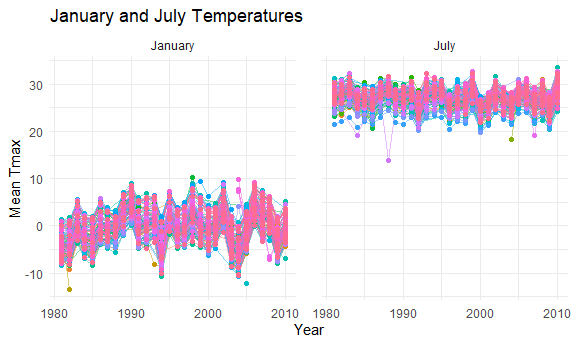
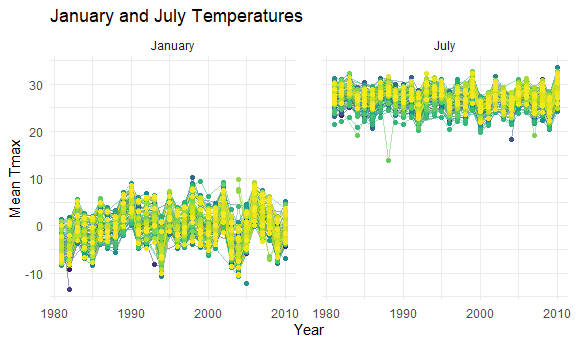
Cleaned up descriptions and plots

Changed region(s): [[0.0938, 0.4928, 0.5, 0.8406], [0.5625, 0.2029, 1.0, 0.4638], [0.0938, 0.8116, 0.125, 0.8406]]

diff --git a/p8105_hw3_rsh2155.md b/p8105_hw3_rsh2155.md
@@ -10,31 +10,15 @@ data("instacart")
 head(instacart)
 ```
 
-    ## # A tibble: 6 x 15
-    ##   order_id product_id add_to_cart_ord~ reordered user_id eval_set order_number
-    ##      <int>      <int>            <int>     <int>   <int> <chr>           <int>
-    ## 1        1      49302                1         1  112108 train               4
-    ## 2        1      11109                2         1  112108 train               4
-    ## 3        1      10246                3         0  112108 train               4
-    ## 4        1      49683                4         0  112108 train               4
-    ## 5        1      43633                5         1  112108 train               4
-    ## 6        1      13176                6         0  112108 train               4
-    ## # ... with 8 more variables: order_dow <int>, order_hour_of_day <int>,
-    ## #   days_since_prior_order <int>, product_name <chr>, aisle_id <int>,
-    ## #   department_id <int>, aisle <chr>, department <chr>
+This data has 1384617 observations and 15 columns. The data contains
+both user/order variables and item variables. Variables relating to the
+user and order are the user ID, order ID, order day, order hour, and
+days since prior order. Item variables include product ID, reordered
+(whether or not the user had ordered this previously), product name,
+aisle, and department. There are multiple aisles contained within
+departments.
 
-This data has 1384617 observations and 15 columns. The data is organized
-where each row is an item from one order, and the data set contains info
-on the item name and department and aisle where it can be found. It also
-contains information on whether that item was reordered, and information
-on that order (order number and time of order).
-
-User/order variables – user ID, order ID, order day, order hour. Item
-variables – name, aisle, department, and some numeric codes.
-
-Aisles are contained in departments
-
-Analyze number of aisles and which has the most items ordered from
+Analyze number of aisles and which has the most items ordered from.
 
 ``` r
 instacart %>% 
@@ -61,7 +45,7 @@ There are 134 aisles, and the most ordered items are from fresh
 vegetables, fresh fruits, and packaged vegetables fruits.
 
 Plot items ordered in each aisle, but only those with greater than
-10,000 items ordered
+10,000 items ordered.
 
 ``` r
 instacart %>% 
@@ -73,12 +57,17 @@ instacart %>%
   ) %>% 
   ggplot(aes(x = aisle, y = n)) +
   geom_point() +
-  theme(axis.text.x = element_text(angle = 90, vjust = 0.5, hjust = 1))
+  theme(axis.text.x = element_text(angle = 90, vjust = 0.5, hjust = 1)) +
+  labs(
+    title = "Items Ordered per Aisle",
+    x = "Aisle",
+    y = "Number of Items"
+    )
 ```
 
 <img src="p8105_hw3_rsh2155_files/figure-gfm/unnamed-chunk-3-1.png" width="90%" />
 
-Make a table of most popular items in three aisles:
+Make a table of the most popular items in three aisles.
 
 ``` r
 instacart %>% 
@@ -103,7 +92,8 @@ instacart %>%
 | packaged vegetables fruits | Organic Raspberries                           | 5546 |    2 |
 | packaged vegetables fruits | Organic Blueberries                           | 4966 |    3 |
 
-Mean time of day for Apples and Ice cream
+Table of mean time of day that Pink Lady Apples and Coffee Ice Cream are
+ordered.
 
 ``` r
 instacart %>% 
@@ -125,6 +115,8 @@ instacart %>%
 | Pink Lady Apples | 13.44118 | 11.36000 | 11.70213 | 14.25000 | 11.55172 | 12.78431 | 11.93750 |
 
 ## Problem 2
+
+Import and clean accelerometer data.
 
 ``` r
 accel_df = 
@@ -150,17 +142,11 @@ accel_df =
 
 There are 6 variables in this data set, and 50400 observations. Data of
 interest includes the activity period and activity count, which are
-respectively the minute of the day the measurement was taken, and the
+respectively the minute of the day the measurement was taken and the
 amount of activity that the man did during that minute. The week and day
 of the five week sample are included, as well as what day of the week
 each measurement was taken during. This is additionally broken into
 weekday and weekend categories.
-
-\-Recode variables (factor, etc) make sure minute of the day is numeric
--Order variables reasonably
-
-might have to use factors to order day of the week properly Total
-activity variable for each day Aggregate using sum
 
 ``` r
 accel_df %>% 
@@ -209,8 +195,14 @@ accel_df %>%
 |      34 |       367824.00 |
 |      35 |       445366.00 |
 
-Single panel plot Show activity - minute on x, activity count on y
-Geom\_line maybe Color of day of week (aes mapping)
+From the above table, it appears there were two days where this man did
+not wear the accelerometer because the activity count is at the baseline
+(day 24 and day 31). It does not appear that his activity levels are
+trending over time, but there are a few days in these five weeks where
+he had quite high activity levels, greater than 600,000 per day, and
+some low days, under 100,000 per day.
+
+Create a single-panel plot showing 24 hour activity levels.
 
 ``` r
 accel_df %>%
@@ -221,6 +213,8 @@ accel_df %>%
     breaks = c(1, 360, 720, 1080, 1440),
     labels = c("12am", "6am", "12pm", "6pm", "12pm")
   ) +
+  scale_y_continuous(limit = c(0, 750)
+  ) +
   geom_smooth(se = FALSE) +
   viridis::scale_color_viridis(
     name = "Day",
@@ -229,7 +223,7 @@ accel_df %>%
     title = "Daily Activity Plot",
     x = "Time of Day",
     y = "Activity Level"
-    )
+  )
 ```
 
     ## `summarise()` regrouping output by 'day' (override with `.groups` argument)
@@ -241,10 +235,11 @@ accel_df %>%
 From the above plot, we can see that starting at around midnight every
 day, on average the individual was moving hardly at all which is to be
 expected because he is likely asleep. Some noteworthy spikes on the plot
-are on Sundays, activity was quite high between 9 am and noon, and on
-Fridays, activity was even higher between 8 pm and 10 pm. In general,
-all days have steadily increasing activity from 6 am to 10 am, at which
-point activity stabilizes before reducing around 9 pm.
+are on Sundays, where activity was quite high between 9 am and noon, and
+on Fridays, activity was high between 8 pm and 10 pm. On average, the
+lowest activity day of the week was Saturday. In general, all days have
+steadily increasing activity from 6 am to 10 am, at which point activity
+stabilizes before reducing around 9 pm.
 
 ## Problem 3
 
@@ -257,42 +252,25 @@ ny_df = ny_noaa %>%
   mutate(
     tmin = tmin / 10,
     tmax = tmax / 10)
-  
-
-ny_df %>% 
-  count(id)
 ```
-
-    ## # A tibble: 747 x 2
-    ##    id              n
-    ##    <chr>       <int>
-    ##  1 US1NYAB0001  1157
-    ##  2 US1NYAB0006   852
-    ##  3 US1NYAB0010   822
-    ##  4 US1NYAB0016   214
-    ##  5 US1NYAB0017   459
-    ##  6 US1NYAB0021   365
-    ##  7 US1NYAB0022   273
-    ##  8 US1NYAB0023   365
-    ##  9 US1NYAB0025   215
-    ## 10 US1NYAL0002   549
-    ## # ... with 737 more rows
 
 This data set contains data, for each day and New York state weather
 station, on daily precipitation, max and min temperatures, and snow
 depth. There are 2595176 observations and 7 variables. Tmin and tmax are
 the minimum and maximum daily temperatures, respectively, in degrees C.
-Id provides the weather station ID for each station. Precipitation data
+ID provides the weather station ID for each station. Precipitation data
 is given in tenths of a mm, as well as daily snowfall (mm) and snow
 depth (mm). Missing data is a major concern with this data set; many of
-the rows of data only contain data on one of the precipitation and
-temperature variables.
+the rows of data only contain information on one of the precipitation
+and temperature variables.
 
-Further data cleaning:
+Perform further data cleaning:
 
 ``` r
 ny_df = ny_df %>% 
-  separate(date, into = c("year", "month", "day"), sep = "[-]", convert = TRUE)
+  separate(date, into = c("year", "month", "day"), sep = "[-]", convert = TRUE) %>% 
+  mutate(snow = as.double(snow))
+
 
 ny_df %>% 
   count(snow) %>% 
@@ -301,7 +279,7 @@ ny_df %>%
 
     ## # A tibble: 282 x 2
     ##     snow       n
-    ##    <int>   <int>
+    ##    <dbl>   <int>
     ##  1     0 2008508
     ##  2    NA  381221
     ##  3    25   31022
@@ -317,6 +295,8 @@ ny_df %>%
 The most commonly observed amounts of snowfall are 0 and NA. 0 is quite
 likely because during the summer and warmer parts of the spring and fall
 in NY state, there will mostly be no snow.
+
+Create a two-panel plot of average max temperature for January and July.
 
 ``` r
 month_names = c(`1` = "January", `7` = "July")
@@ -336,6 +316,12 @@ ny_df %>%
     title = "January and July Temperatures",
     x = "Year",
     y = "Mean Tmax"
+  ) +
+  viridis::scale_color_viridis(
+    discrete = TRUE) +
+  scale_x_continuous(
+    breaks = c(1980, 1990, 2000, 2010),
+    labels = c("1980", "1990", "2000", "2010")
   )
 ```
 
@@ -343,11 +329,51 @@ ny_df %>%
 
 <img src="p8105_hw3_rsh2155_files/figure-gfm/unnamed-chunk-11-1.png" width="90%" />
 
-Comment on global warming, are some stations always colder?
+The above plot shows the mean temperatures at each station for the
+months of January and July, from 1980 to 2010. As expected, July
+temperatures are much warmer than January temperatures for all stations
+in New York. The January temperatures seem to have warmed over time, and
+there is also greater spread of temperatures in the 2000s than in the
+1980s and 1990s. July temperatures look more stable over time. There are
+outliers on both plots, and one point in January of 1982 particularly
+stands out, as well as a point in July of 1988. Although there is
+variation between stations in each year, across years they tend to
+follow similar patterns: when one station has a warm month, most other
+stations also have a warm month.
 
-Next 2 panel plot: pair two fundamentally dif plots together
-(patchwork).
+Create two-panel plot of min vs. max temperatures and snowfall
+distributions.
 
-Tmax vs tmin (contour plot, bin plot, or hex plot)
+``` r
+tmax_tmin = ny_df %>% 
+  ggplot(aes(x = tmax, y = tmin)) +
+  geom_hex() +
+  labs(
+    title = "Max and Min Temperatures",
+    x = "Tmax",
+    y = "Tmin"
+  ) +
+  viridis::scale_color_viridis(
+    discrete = TRUE) +
+  knitr::opts_chunk$set(fig.width = 15, fig.height = 12)
 
-distr of snowfall values: boxplots, violin plots, ridge plots
+
+  
+snowfall = ny_df %>% 
+  filter(snow > 0, snow < 100) %>% 
+  mutate(year = as.factor(year)) %>% 
+  ggplot(aes(x = snow, y = year)) +
+  geom_boxplot(alpha = 0.5) +
+  labs(
+    title = "Snowfall Distribution",
+    x = "Year",
+    y = "Snowfall"
+  ) +
+  viridis::scale_color_viridis(
+    discrete = TRUE) +
+  knitr::opts_chunk$set(fig.width = 15, fig.height = 12)
+
+tmax_tmin / snowfall
+```
+
+<img src="p8105_hw3_rsh2155_files/figure-gfm/unnamed-chunk-12-1.png" width="90%" />
